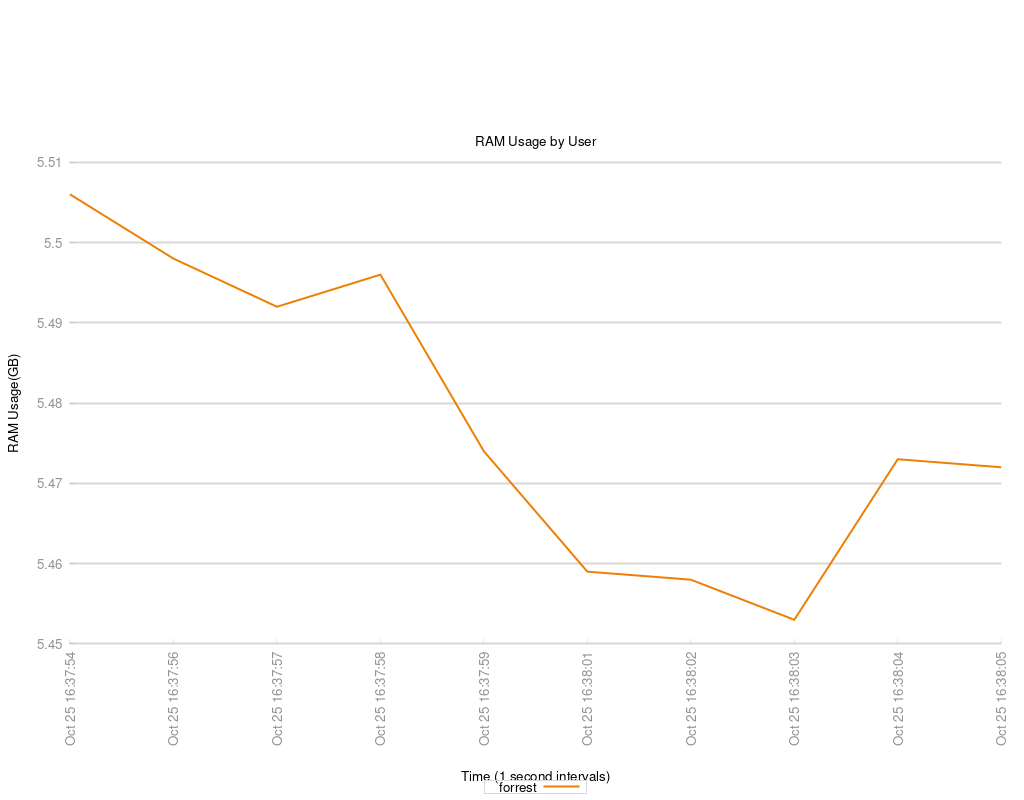
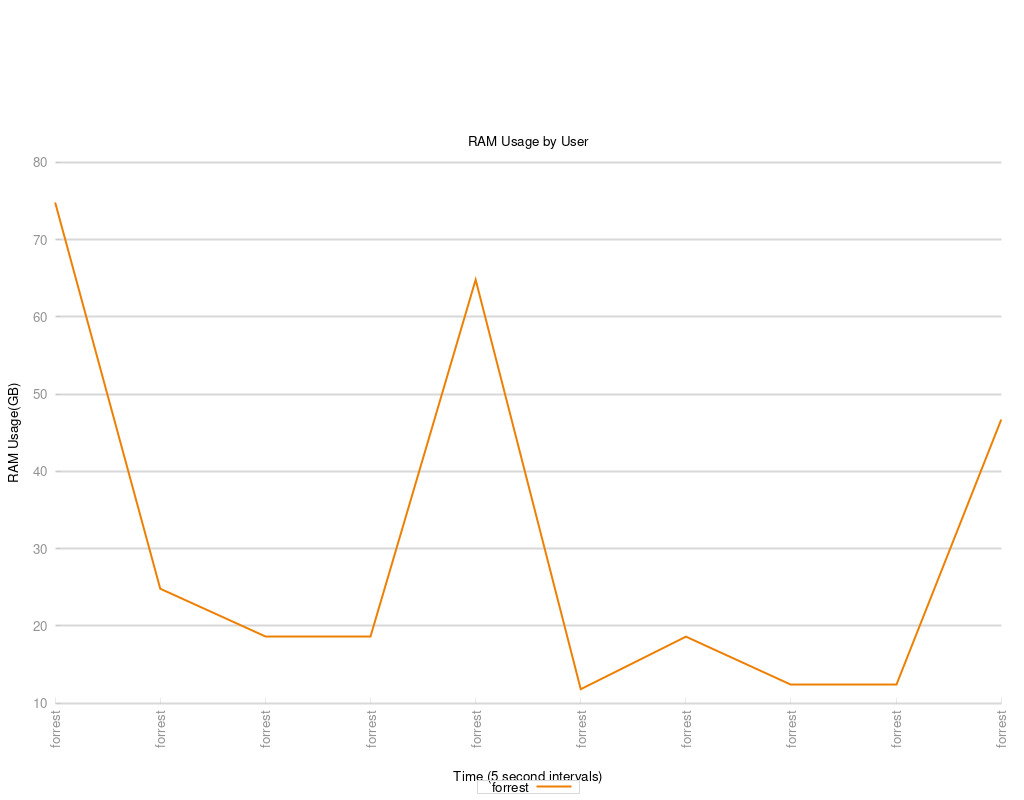
name now dispalays for user

diff --git a/src/App.js b/src/App.js
@@ -96,21 +96,23 @@ function App() {
       console.log('Data loaded from loadDataWithPromise')
       console.log(data)
       
+      var curr_User;
       let curr_RAM = []
       let curr_CPU = []
       let curr_Time = []
       
       for (let i = 0; i < data.length; i++) {
+        curr_User = data[i].User;
         curr_Time.push(data[i].Time)
         curr_RAM.push(data[i].RAM)
         curr_CPU.push(data[i].CPU)
       }
-      generateGraphs(curr_Time, curr_RAM, 'myChart1', 'RAM Usage by User', 'GB', 'rgba(255, 99, 132, 0.5)', 'rgba(255, 99, 132, 1)')
-      generateGraphs(curr_Time, curr_CPU, 'myChart2', 'CPU Usage by User', '%', 'rgba(0,206,209, 0.5)', 'rgba(0,206,209, 1)')
+      generateGraphs(curr_User, curr_Time, curr_RAM, 'myChart1', curr_User, 'GB', 'rgba(255, 99, 132, 0.5)', 'rgba(255, 99, 132, 1)')
+      generateGraphs(curr_User, curr_Time, curr_CPU, 'myChart2', curr_User, '%', 'rgba(0,206,209, 0.5)', 'rgba(0,206,209, 1)')
     })
   }
 
-  function generateGraphs(x_axis, y_axis, id, label, units, backgroundColor, borderColor) {
+  function generateGraphs(user, x_axis, y_axis, id, label, units, backgroundColor, borderColor) {
     // Create Graphs
     const ctx = document.getElementById(id).getContext('2d');
 
@@ -154,11 +156,13 @@ function App() {
   return (
     <Layout className="layout">
     <Header>
+    <br/>
+    <br/>
+    <br/>
       <div style={{ display: 'flex', justifyContent: 'center', alignItems: 'center'}}>
         <img src={LUCID_LOGO} /> 
       </div>
     </Header>
-
     <br/>
     <br/>
     <br/>
